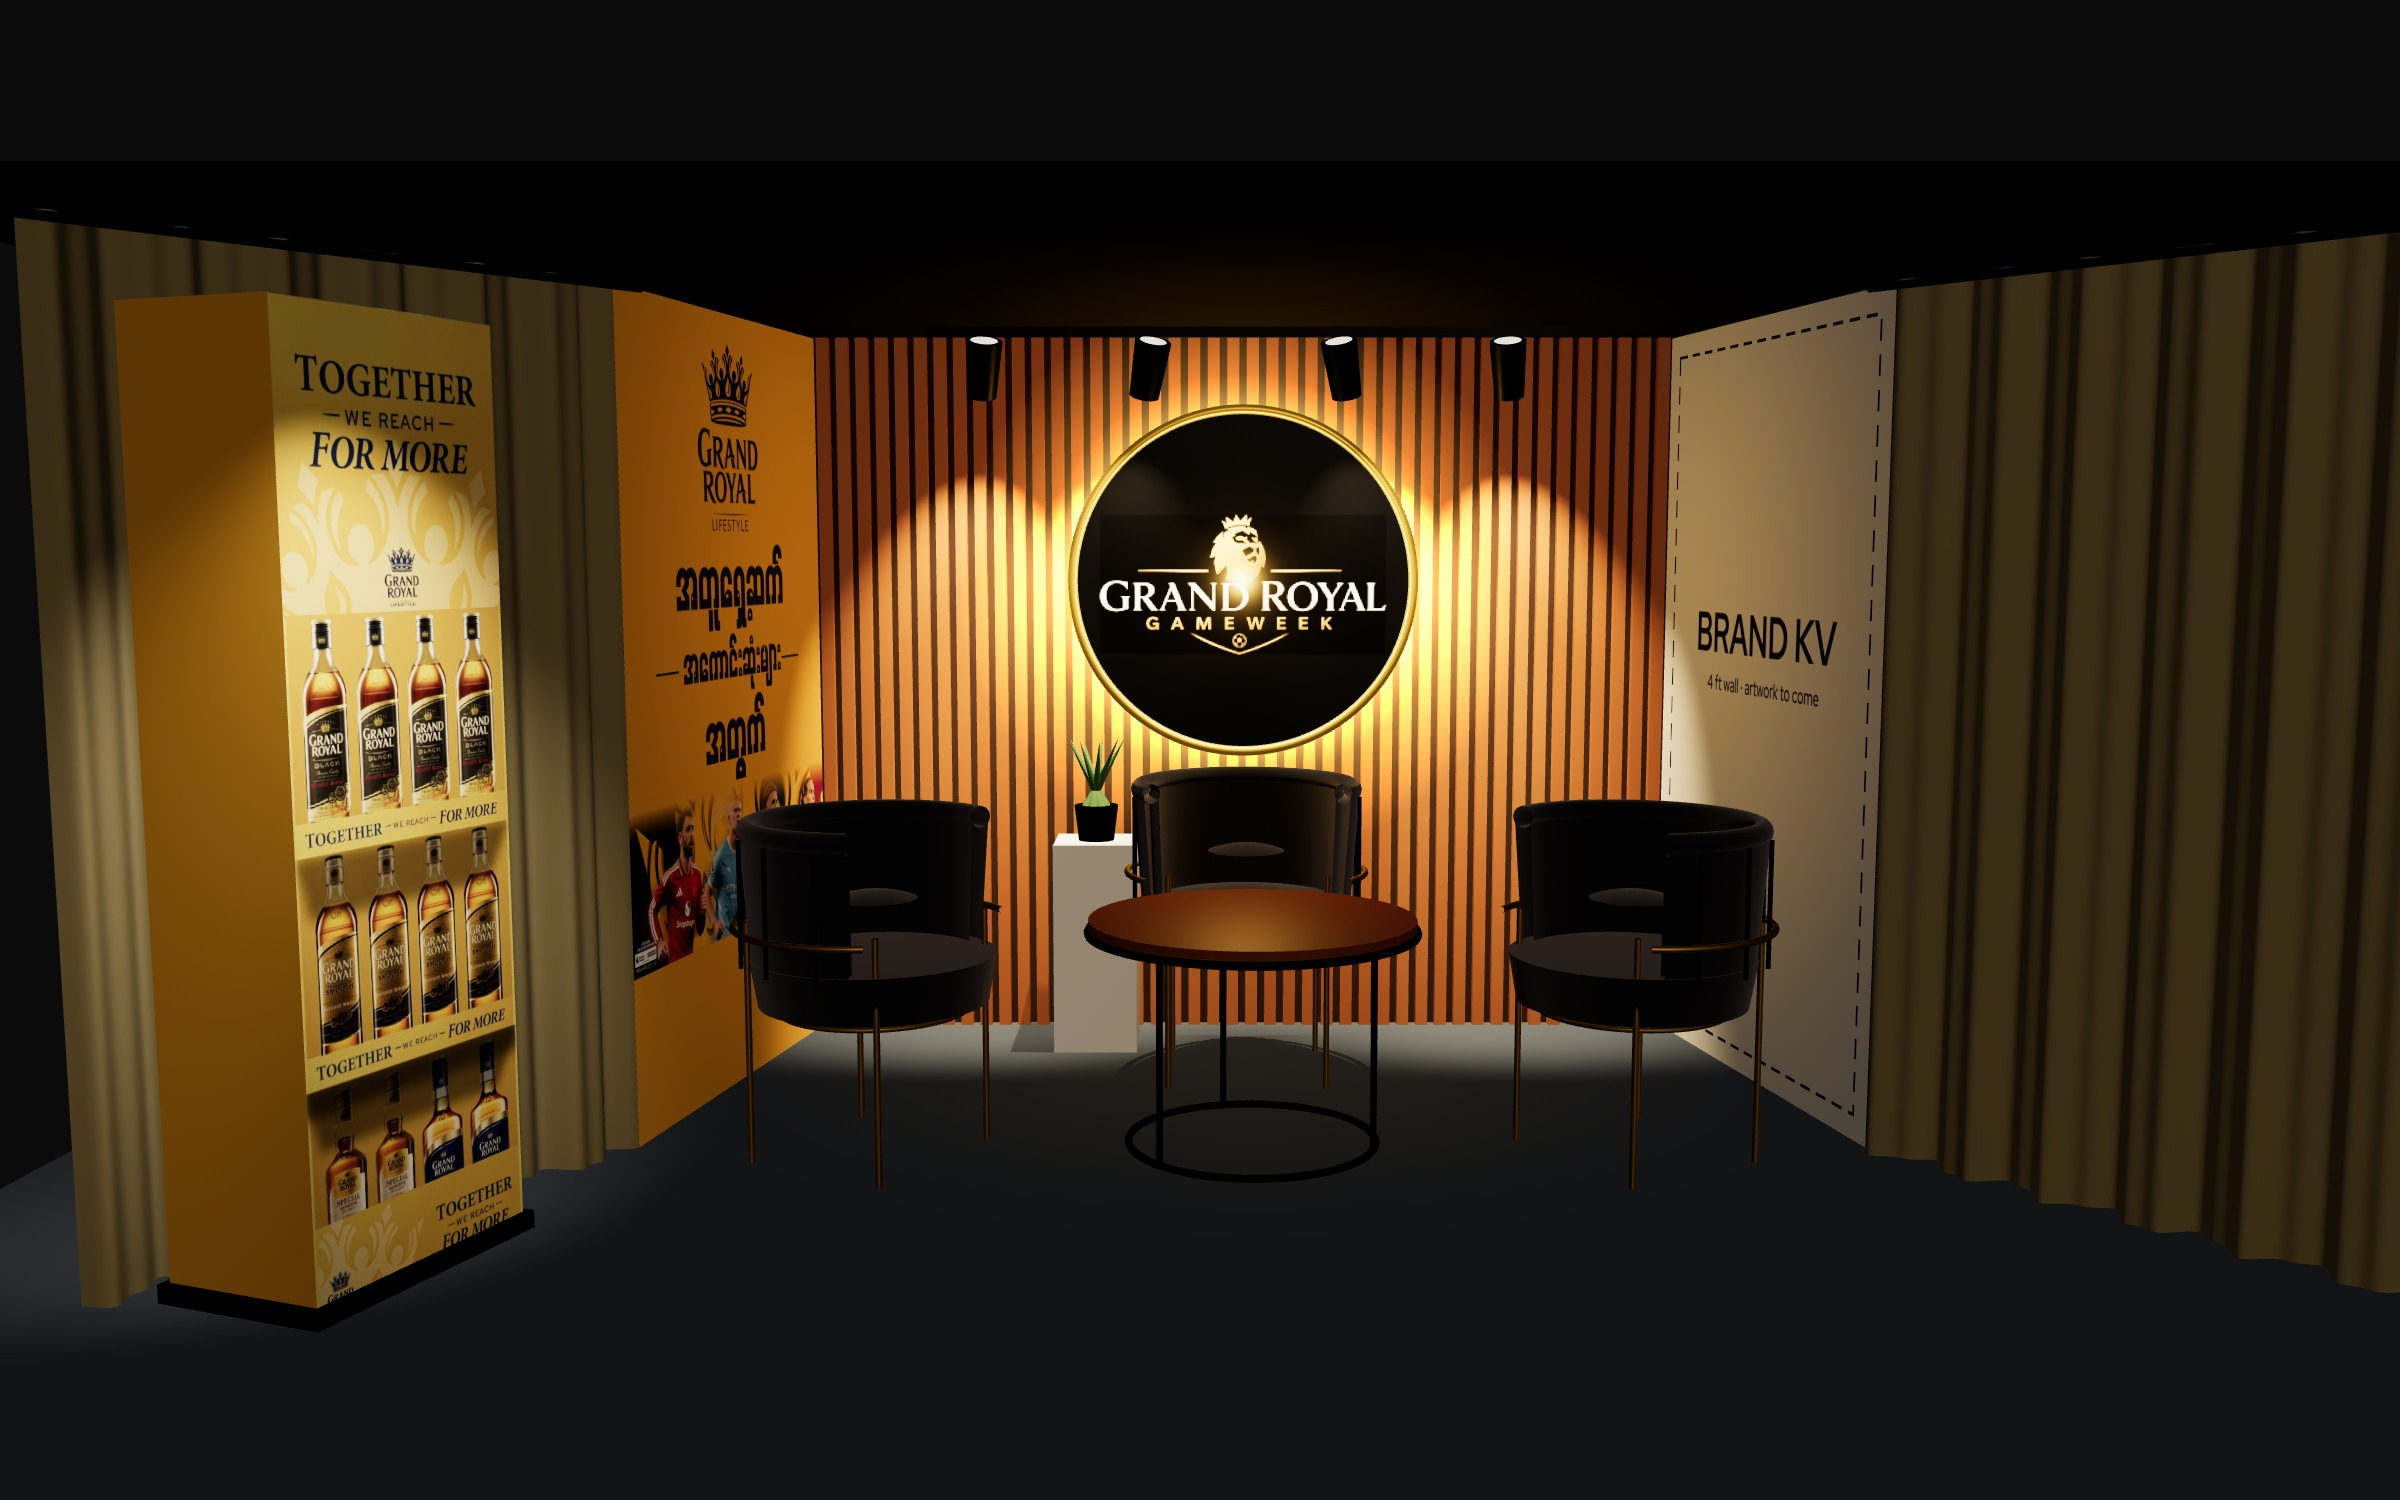
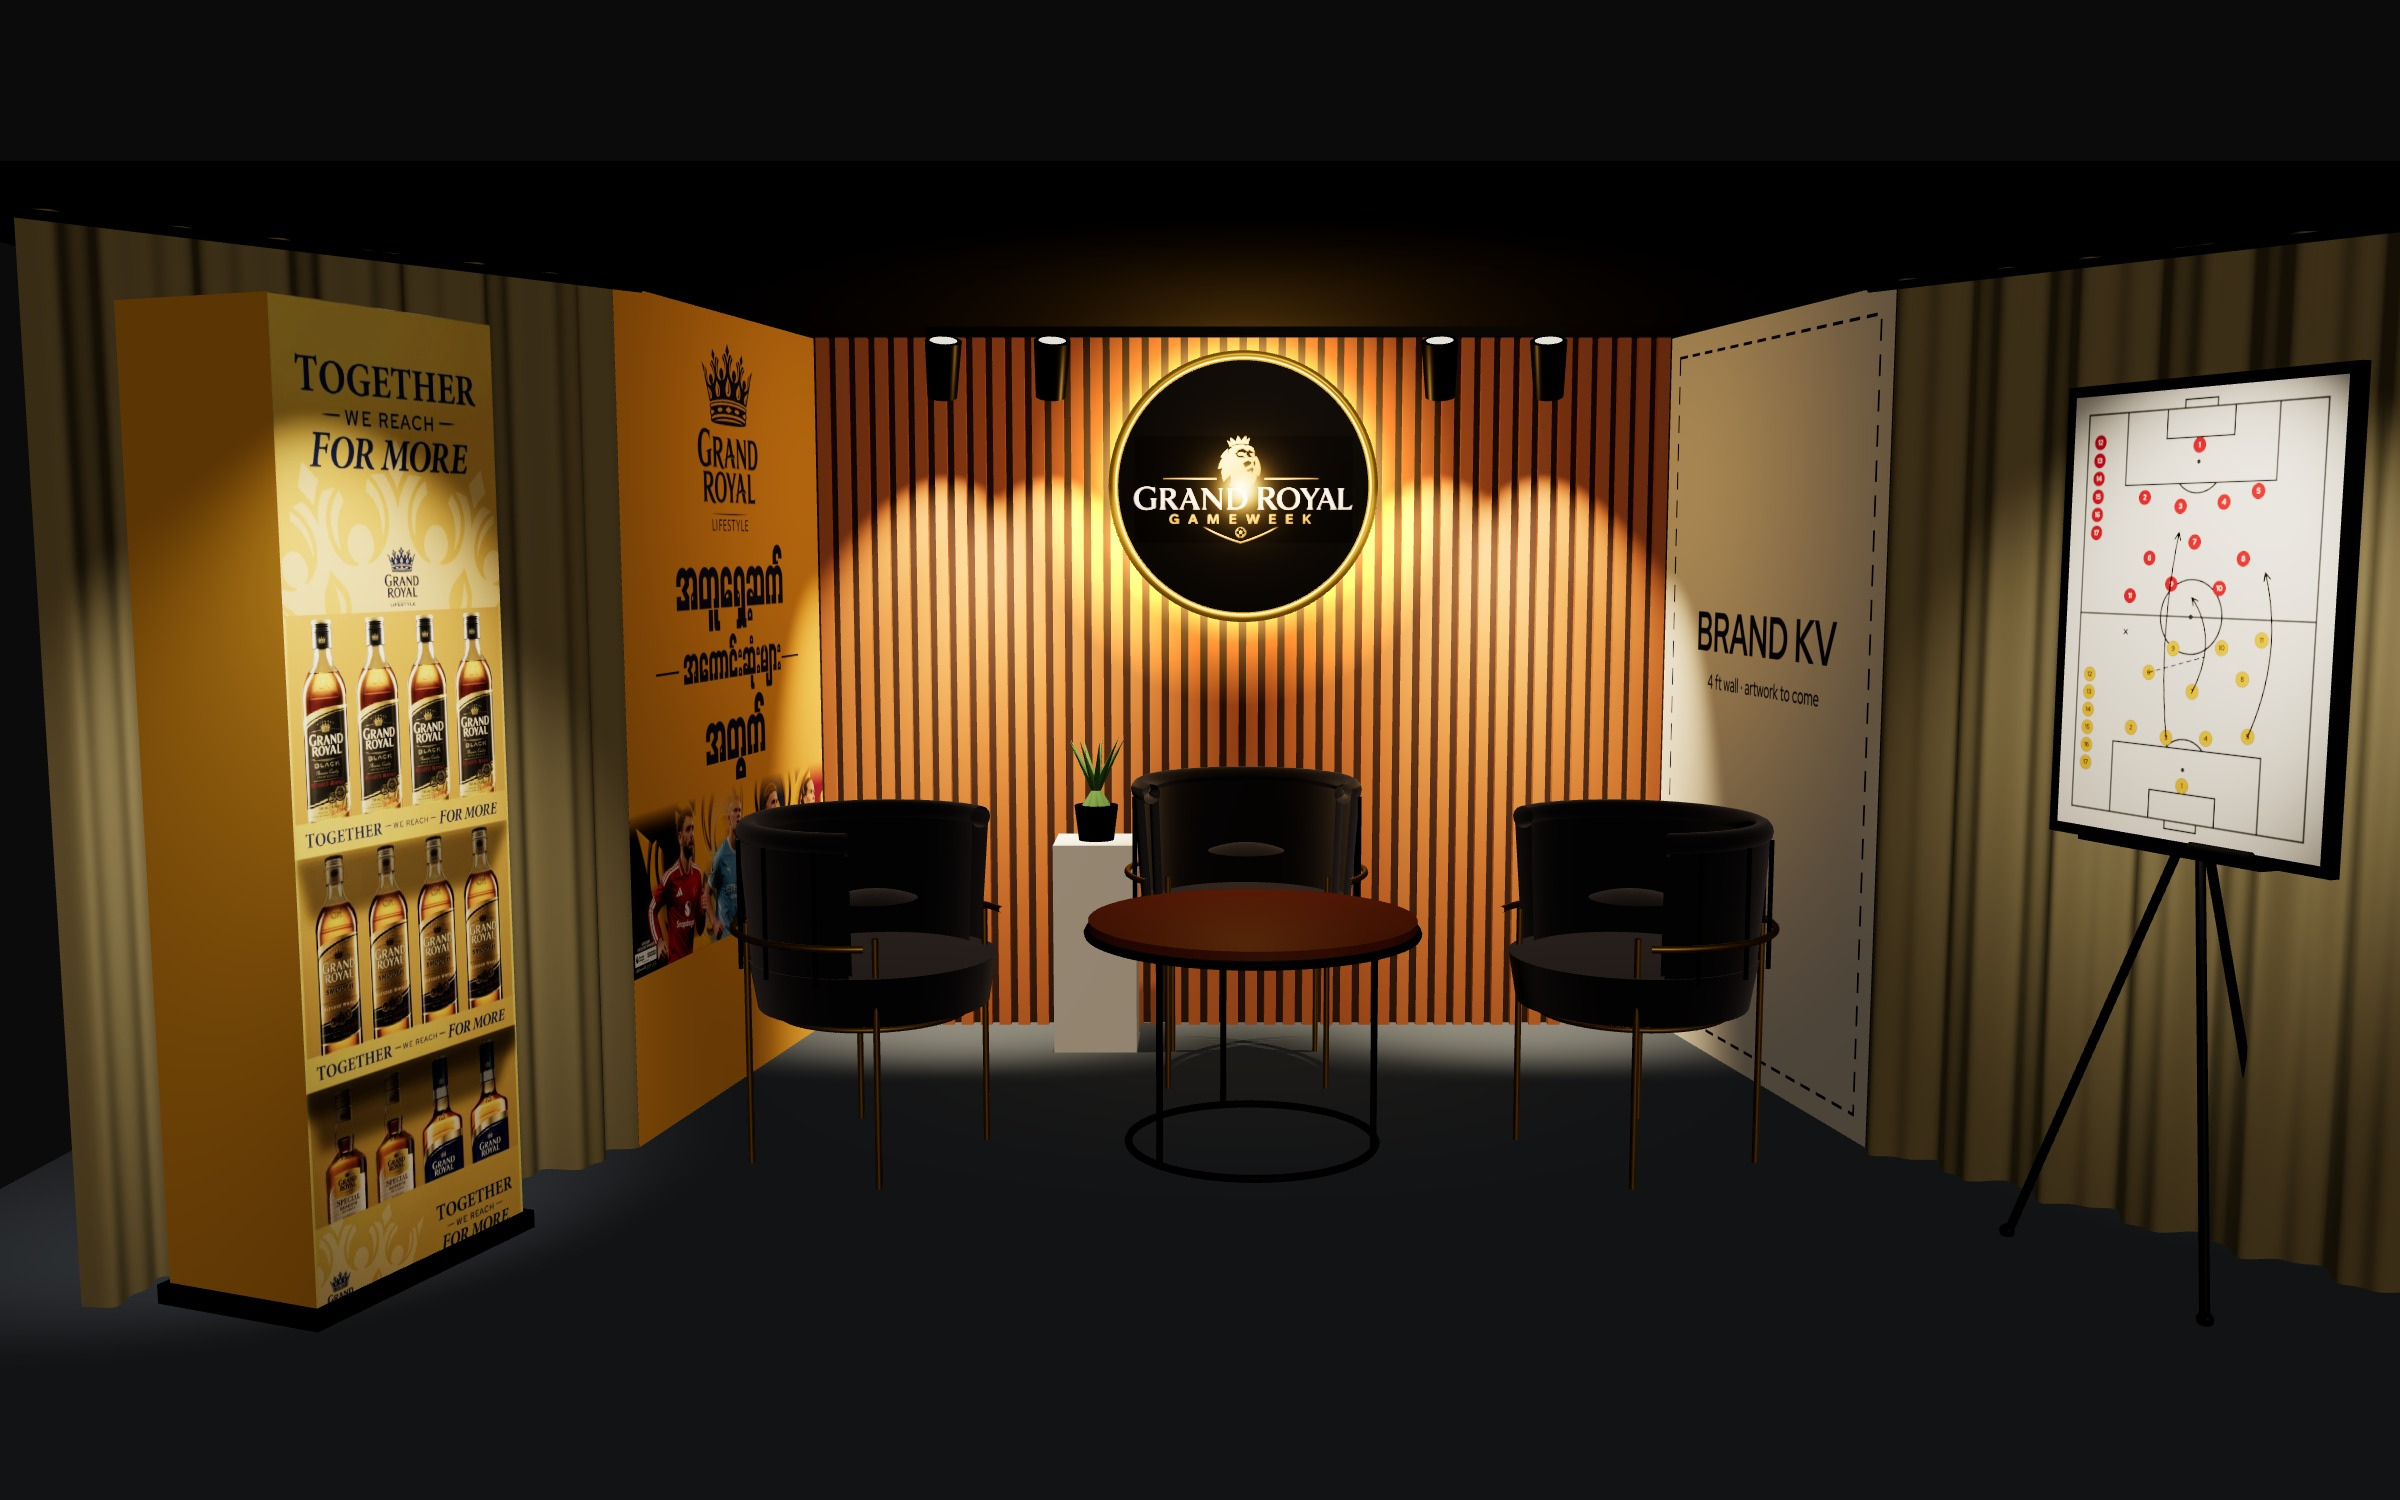
Add tactical board easel; smaller, higher lightbox clear of hosts

diff --git a/index.html b/index.html
@@ -39,9 +39,10 @@
   <div class="bar" role="toolbar" aria-label="Camera views">
     <button data-view="front" aria-pressed="true">Front</button>
     <button data-view="left">Left · KV &amp; rack</button>
-    <button data-view="right">Right · Brand KV</button>
+    <button data-view="right">Right · Brand KV &amp; board</button>
     <button data-view="host">Host seat</button>
     <button data-view="top">Plan</button>
+    <button id="hosts" aria-pressed="false">Show hosts</button>
     <button id="dims" aria-pressed="false">Dimensions</button>
     <button id="spin" aria-pressed="false">Turntable</button>
   </div>
@@ -127,7 +128,7 @@ async function build() {
   slats.receiveShadow = true; scene.add(slats);
 
   /* ---- centre lightbox: program logo, ~38 in across ---- */
-  const R = 1.58, LB_Y = 4.25;
+  const R = 1.2, LB_Y = 5.12;   // ~29 in, logo band clears a seated host (head top ~4.4 ft)
   const faceTex = canvasTex(1024, 1024, (g, w, h) => {
     g.fillStyle = '#050505'; g.fillRect(0, 0, w, h);
     const sx = 212, sy = 181, sw = 1204, sh = 585, dw = 860, dh = dw * sh / sw;
@@ -195,9 +196,72 @@ async function build() {
   const plinth = new THREE.Mesh(new THREE.BoxGeometry(RW + .1, .12, RD + .1), M.black);
   plinth.position.set(rackPos.x, .06, rackPos.z); plinth.rotation.y = rack.rotation.y; scene.add(plinth);
 
+
+  /* helper: a rod between two points */
+  function rod(a, b, r, mat, parent) {
+    const d = b.clone().sub(a), m = new THREE.Mesh(new THREE.CylinderGeometry(r, r, d.length(), 10), mat);
+    m.position.copy(a).addScaledVector(d, .5); m.quaternion.setFromUnitVectors(new THREE.Vector3(0, 1, 0), d.normalize());
+    m.castShadow = true; parent.add(m); return m;
+  }
+
+  /* ---- tactical board on a tripod easel: right side, after the Brand KV, at the curtain ---- */
+  const dirR = new THREE.Vector3(Math.sin(CURTAIN_SPLAY), 0, Math.cos(CURTAIN_SPLAY));
+  const inwardR = new THREE.Vector3(-Math.cos(CURTAIN_SPLAY), 0, Math.sin(CURTAIN_SPLAY));
+  const easelPos = endR.clone().addScaledVector(dirR, 2.6).addScaledVector(inwardR, .7);
+  const easel = new THREE.Group(); easel.position.copy(easelPos);
+  const lookE = new THREE.Vector3(-1.2, 0, 9).sub(easelPos); easel.rotation.y = Math.atan2(lookE.x, lookE.z);
+  scene.add(easel);
+  const BW = 2.0, BH = 2.8, BY = 2.75;          // board 2 x 2.8 ft, bottom edge at 2.75 ft
+  const pitchTex = canvasTex(1000, 1400, (g, w, h) => {
+    g.fillStyle = '#f8f8f6'; g.fillRect(0, 0, w, h);
+    const m = 60, L = m, T = m, W = w - 2*m, Hh = h - 2*m;
+    g.strokeStyle = '#3b4048'; g.lineWidth = 6; g.lineCap = 'round';
+    g.strokeRect(L, T, W, Hh);
+    g.beginPath(); g.moveTo(L, h/2); g.lineTo(L + W, h/2); g.stroke();
+    g.beginPath(); g.arc(w/2, h/2, 115, 0, Math.PI*2); g.stroke();
+    g.fillStyle = '#3b4048'; g.beginPath(); g.arc(w/2, h/2, 8, 0, Math.PI*2); g.fill();
+    [[T, 1], [T + Hh, -1]].forEach(([y0, s]) => {
+      g.strokeRect(w/2 - 280, s > 0 ? y0 : y0 - 230, 560, 230);
+      g.strokeRect(w/2 - 125, s > 0 ? y0 : y0 - 90, 250, 90);
+      g.beginPath(); g.arc(w/2, y0 + s*165, 7, 0, Math.PI*2); g.fill();
+      g.beginPath(); g.arc(w/2, y0 + s*165, 95, s > 0 ? .25*Math.PI : 1.25*Math.PI, s > 0 ? .75*Math.PI : 1.75*Math.PI); g.stroke();
+      g.strokeRect(w/2 - 60, s > 0 ? y0 - 26 : y0, 120, 26);
+    });
+    const mag = (x, y, c, n, ink) => { g.fillStyle = c; g.beginPath(); g.arc(x, y, 24, 0, Math.PI*2); g.fill();
+      g.strokeStyle = 'rgba(0,0,0,.25)'; g.lineWidth = 2; g.stroke(); g.fillStyle = ink; g.font = '700 22px "Red Hat Display", Arial'; g.textAlign = 'center'; g.textBaseline = 'middle'; g.fillText(n, x, y + 1); };
+    const red = [[500,175],[300,330],[440,360],[600,350],[720,320],[330,520],[500,470],[680,520],[420,600],[600,610],[260,640]];
+    const yel = [[500,1225],[290,1060],[430,1080],[580,1070],[730,1050],[350,880],[520,930],[700,880],[440,800],[620,790],[760,760]];
+    red.forEach(([x, y], i) => mag(x, y, '#d6323b', i + 1, '#fff'));
+    yel.forEach(([x, y], i) => mag(x, y, '#f1c232', i + 1, '#1c1c1c'));
+    for (let i = 0; i < 6; i++) { mag(110, 150 + i*58, '#d6323b', 12 + i, '#fff'); mag(110, 900 + i*58, '#f1c232', 12 + i, '#1c1c1c'); }
+    const arrow = (pts) => { g.strokeStyle = '#111'; g.lineWidth = 5; g.beginPath(); g.moveTo(...pts[0]);
+      g.quadraticCurveTo(pts[1][0], pts[1][1], pts[2][0], pts[2][1]); g.stroke();
+      const [x1, y1] = pts[1], [x2, y2] = pts[2], a = Math.atan2(y2 - y1, x2 - x1);
+      g.beginPath(); g.moveTo(x2, y2); g.lineTo(x2 - 26*Math.cos(a - .45), y2 - 26*Math.sin(a - .45)); g.moveTo(x2, y2); g.lineTo(x2 - 26*Math.cos(a + .45), y2 - 26*Math.sin(a + .45)); g.stroke(); };
+    arrow([[430, 1080], [380, 760], [440, 440]]); arrow([[730, 1050], [840, 800], [760, 560]]); arrow([[520, 930], [610, 760], [500, 640]]);
+    g.setLineDash([16, 14]); g.strokeStyle = '#111'; g.lineWidth = 4; g.beginPath(); g.moveTo(350, 880); g.lineTo(560, 820); g.stroke(); g.setLineDash([]);
+    g.font = '700 46px "Red Hat Display", Arial'; g.fillStyle = '#111'; g.fillText('×', 250, 760);
+  });
+  const frameM = std({ color:0x16171a, metalness:.7, roughness:.35 });
+  const boardBack = new THREE.Mesh(new THREE.BoxGeometry(BW + .14, BH + .14, .07), frameM);
+  boardBack.position.set(0, BY + BH/2, 0); boardBack.castShadow = true; easel.add(boardBack);
+  const boardFace = new THREE.Mesh(new THREE.PlaneGeometry(BW, BH), std({ map:pitchTex, roughness:.25, metalness:0 }));
+  boardFace.position.set(0, BY + BH/2, .037); easel.add(boardFace);
+  const tray = new THREE.Mesh(new THREE.BoxGeometry(BW * .7, .05, .16), frameM); tray.position.set(0, BY - .05, .07); easel.add(tray);
+  const pen = new THREE.Mesh(new THREE.CylinderGeometry(.025, .025, .45, 10), std({ color:0x111111, roughness:.6 }));
+  pen.rotation.z = Math.PI/2; pen.position.set(.35, BY - .005, .08); easel.add(pen);
+  const apex = new THREE.Vector3(0, BY + .25, -.12);
+  rod(apex, new THREE.Vector3(-.8, 0, .5), .03, frameM, easel);
+  rod(apex, new THREE.Vector3(.8, 0, .5), .03, frameM, easel);
+  rod(apex, new THREE.Vector3(0, 0, -1.0), .03, frameM, easel);
+  rod(apex, new THREE.Vector3(0, BY + BH * .75, -.08), .025, frameM, easel);
+  [[-.8, .5], [.8, .5], [0, -1.0]].forEach(([x, z]) => { const f = new THREE.Mesh(new THREE.SphereGeometry(.05, 10, 8), frameM); f.position.set(x, .03, z); easel.add(f); });
+  const boardLight = new THREE.SpotLight(0xfff0d8, 24, 12, .45, .8, 1.3);
+  boardLight.position.set(easelPos.x - 2.2, H - .2, easelPos.z + 2.4); boardLight.target = boardFace; scene.add(boardLight);
+
   /* ---- track lights ---- */
   const rail = new THREE.Mesh(new THREE.BoxGeometry(5.6, .08, .1), M.black); rail.position.set(0, H - .06, 1.15); scene.add(rail);
-  [[-2.3, -2.6], [-.85, -1.4], [.85, 1.4], [2.3, 2.6]].forEach(([x, tx], i) => {
+  [[-2.65, -2.9], [-1.7, -1.9], [1.7, 1.9], [2.65, 2.9]].forEach(([x, tx], i) => {
     const target = new THREE.Object3D(); target.position.set(tx, 3.2, 0); scene.add(target);
     const head = new THREE.Mesh(new THREE.CylinderGeometry(.13, .16, .5, 24), M.black);
     head.position.set(x, H - .38, 1.15); head.lookAt(target.position); head.rotateX(Math.PI/2); scene.add(head);
@@ -211,6 +275,7 @@ async function build() {
 
   /* ---- three tub chairs + round table ---- */
   const velvet = new THREE.MeshPhysicalMaterial({ color:0x202028, roughness:.92, sheen:1, sheenRoughness:.4, sheenColor:new THREE.Color(0x8a8a99), side:THREE.DoubleSide });
+  const seats = [];
   function chair(x, z, yaw) {
     // open-front tub chair: back wraps 234 degrees, the gap faces +z (forward)
     const g = new THREE.Group(); g.position.set(x, 0, z); g.rotation.y = yaw;
@@ -233,6 +298,7 @@ async function build() {
     });
     const ring = new THREE.Mesh(new THREE.TorusGeometry(.7, .02, 8, 48), M.brass); ring.rotation.x = Math.PI/2; ring.position.y = 1.12; g.add(ring);
     g.traverse(o => { if (o.isMesh) { o.castShadow = true; o.receiveShadow = true; } }); scene.add(g);
+    seats.push({ x, z, yaw });
   }
   chair(0, 1.75, 0);
   chair(-2.85, 4.05, Math.PI * .34);
@@ -253,6 +319,24 @@ async function build() {
     lf.rotation.set(Math.sin(a) * .5, 0, -Math.cos(a) * .5); scene.add(lf);
   }
 
+
+  /* ---- optional seated hosts, to check sightlines (head top ~4.4 ft) ---- */
+  const hostsG = new THREE.Group(); hostsG.name = 'hosts'; hostsG.visible = false; scene.add(hostsG);
+  const clay = std({ color:0x8e9096, roughness:.85 });
+  const cap = (r, len, x, y, z, rx = 0) => { const m = new THREE.Mesh(new THREE.CapsuleGeometry(r, len, 6, 16), clay); m.position.set(x, y, z); m.rotation.x = rx; m.castShadow = true; return m; };
+  seats.forEach(({ x, z, yaw }) => {
+    const f = new THREE.Group(); f.position.set(x, 0, z); f.rotation.y = yaw;
+    f.add(cap(.42, .95, 0, 2.55, -.18));                          // torso
+    const head = new THREE.Mesh(new THREE.SphereGeometry(.36, 24, 16), clay); head.position.set(0, 4.04, -.12); head.castShadow = true; f.add(head);
+    f.add(cap(.1, .12, 0, 3.6, -.14));                            // neck
+    [-.22, .22].forEach(dx => {
+      f.add(cap(.16, .95, dx, 1.72, .4, Math.PI/2));              // thigh
+      f.add(cap(.13, 1.2, dx, .9, 1.0));                          // shin
+      f.add(cap(.11, .9, dx * 2.3, 2.45, .15, .5));               // arm
+    });
+    hostsG.add(f);
+  });
+
   /* ---- room light ---- */
   scene.add(new THREE.HemisphereLight(0xfff0dc, 0x232833, .55));
   const fill = new THREE.DirectionalLight(0xffe6c8, .55); fill.position.set(2, 5, 12); scene.add(fill);
@@ -260,7 +344,7 @@ async function build() {
   rackLight.position.set(rackPos.x + 2.2, H - .2, rackPos.z + 2.4); rackLight.target = rack; scene.add(rackLight);
 
   /* ---- dimension guides ---- */
-  const dims = new THREE.Group(); dims.visible = false; scene.add(dims);
+  const dims = new THREE.Group(); dims.name = 'dims'; dims.visible = false; scene.add(dims);
   const lineM = new THREE.LineBasicMaterial({ color:GOLD });
   function label(text, pos) {
     const t = canvasTex(512, 128, (g, w, h) => { g.fillStyle = 'rgba(11,11,12,.82)'; g.fillRect(0, 0, w, h); g.strokeStyle = '#e5b83d'; g.lineWidth = 4; g.strokeRect(2, 2, w - 4, h - 4); g.fillStyle = '#f3ece3'; g.font = '600 52px "Red Hat Display", Arial'; g.textAlign = 'center'; g.textBaseline = 'middle'; g.fillText(text, w/2, h/2 + 2); });
@@ -277,8 +361,9 @@ async function build() {
   seg(new THREE.Vector3(4, 0, 0), endR, 'Brand KV 4 ft');
   seg(endL, endL.clone().addScaledVector(cL.dir, 4), 'Curtain 4 ft');
   seg(endR, endR.clone().add(new THREE.Vector3(Math.sin(CURTAIN_SPLAY) * 4, 0, Math.cos(CURTAIN_SPLAY) * 4)), 'Curtain 4 ft');
-  label('Lightbox Ø 38 in', new THREE.Vector3(0, LB_Y + R + .45, .4));
+  label('Lightbox Ø 29 in', new THREE.Vector3(0, LB_Y + R + .45, .4));
   label('Display rack 1.8 × 6 ft', new THREE.Vector3(rackPos.x, RH + .45, rackPos.z));
+  label('Tactical board 2 × 2.8 ft', new THREE.Vector3(easelPos.x, BY + BH + .5, easelPos.z));
 
   document.getElementById('load').remove();
   return { rackPos };
@@ -288,7 +373,7 @@ async function build() {
 const VIEWS = {
   front: { p:[-0.4, 4.6, 18.5], t:[-0.4, 2.9, 2.4] },
   left:  { p:[3.4, 4.1, 12.2], t:[-4.9, 3.0, 3.6] },
-  right: { p:[-3.2, 4.0, 9.8], t:[4.2, 3.1, 2.4] },
+  right: { p:[-3.4, 4.1, 12.2], t:[4.9, 3.0, 3.6] },
   host:  { p:[0.2, 2.9, 7.4], t:[0, 3.6, 0] },
   top:   { p:[0, 17, 6.2], t:[0, 0, 3.2] },
 };
@@ -305,9 +390,10 @@ document.getElementById('spin').addEventListener('click', e => { controls.autoRo
 function resize() { const w = stage.clientWidth, h = stage.clientHeight; renderer.setSize(w, h, false); camera.aspect = w / h; camera.updateProjectionMatrix(); }
 new ResizeObserver(resize).observe(stage); resize();
 
-let dimsGroup = null;
+let dimsGroup = null, hostsGroup = null;
 build().then(() => {
-  dimsGroup = scene.children.find(o => o.isGroup && o.visible === false);
+  dimsGroup = scene.getObjectByName('dims'); hostsGroup = scene.getObjectByName('hosts');
+  document.getElementById('hosts').addEventListener('click', e => { hostsGroup.visible = !hostsGroup.visible; e.currentTarget.setAttribute('aria-pressed', hostsGroup.visible); });
   document.getElementById('dims').addEventListener('click', e => { dimsGroup.visible = !dimsGroup.visible; e.currentTarget.setAttribute('aria-pressed', dimsGroup.visible); });
   window.__ready = true;
 }).catch(err => { document.getElementById('load').textContent = 'Could not load the set artwork'; console.error(err); });
